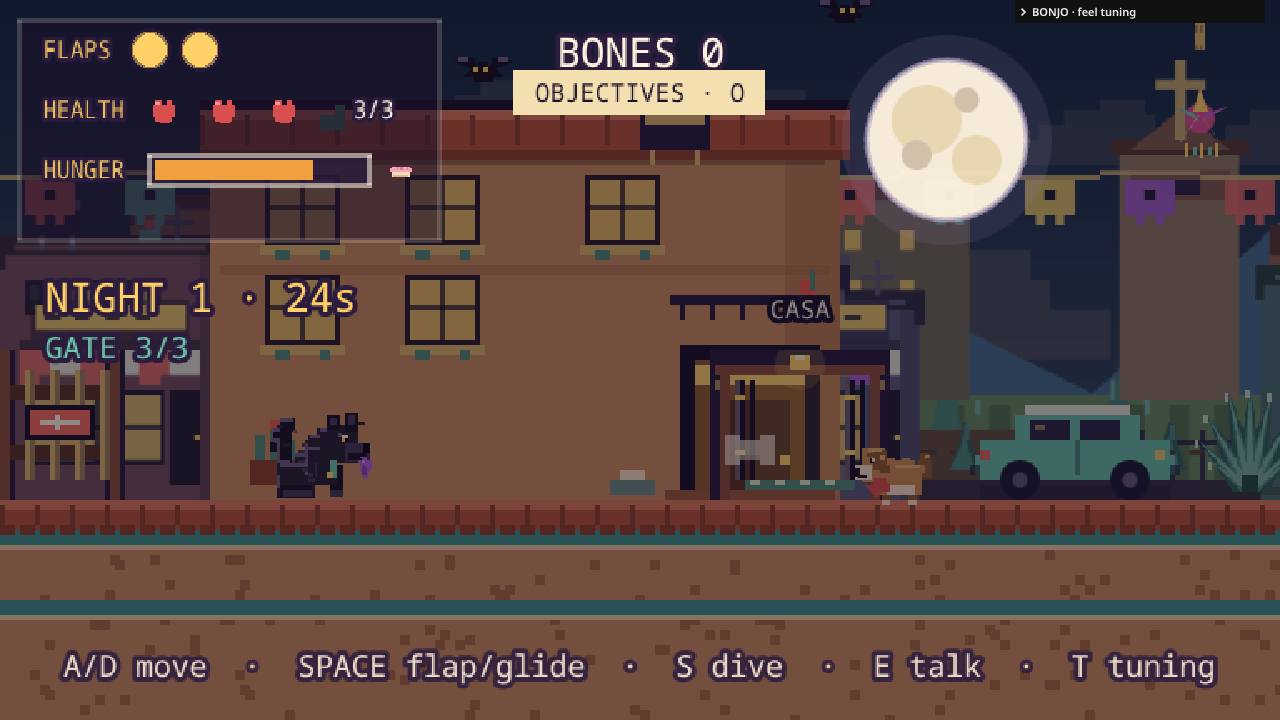
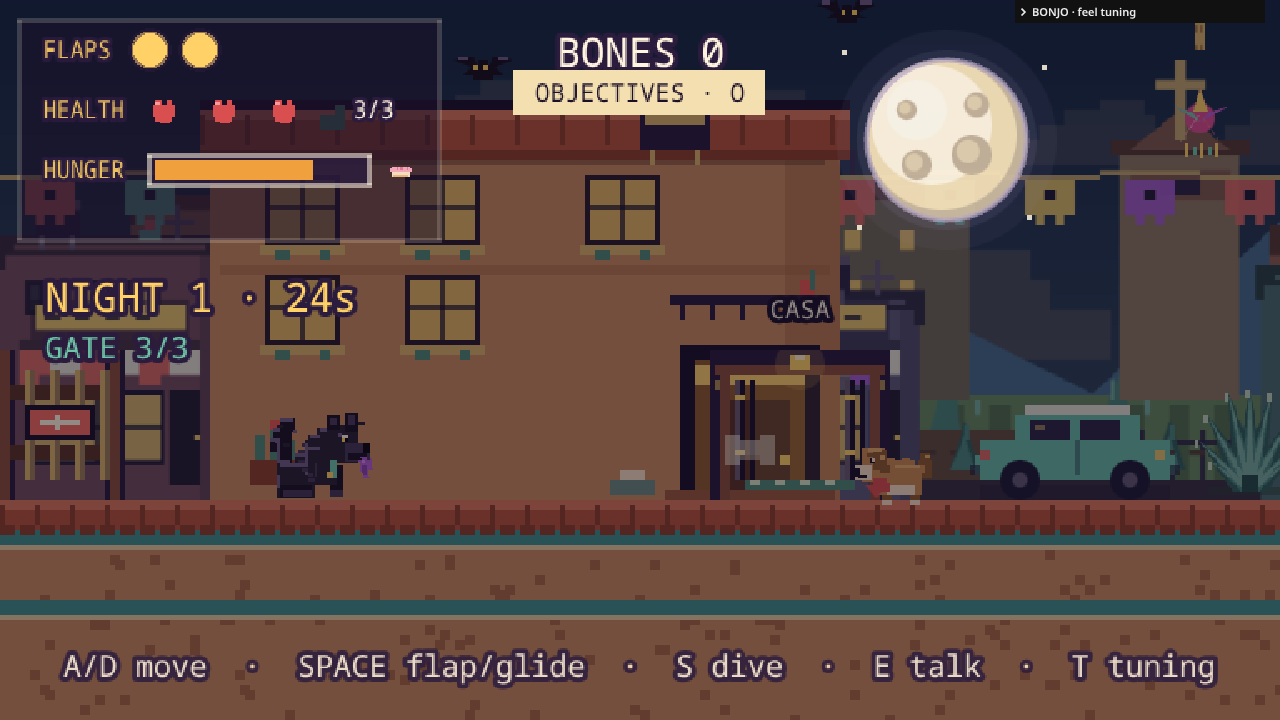
Polish sun and moon night-sky art

Changed region(s): [[0.6562, 0.0611, 0.8125, 0.3056]]

diff --git a/src/art.js b/src/art.js
@@ -158,6 +158,16 @@ function makeSky(scene) {
 
 function makeSun(scene) {
   const g = gfx(scene);
+  g.lineStyle(1, GOLD, 0.42);
+  g.lineBetween(24, 2, 24, 7);
+  g.lineBetween(24, 41, 24, 46);
+  g.lineBetween(2, 24, 7, 24);
+  g.lineBetween(41, 24, 46, 24);
+  g.lineBetween(8, 8, 12, 12);
+  g.lineBetween(36, 36, 40, 40);
+  g.lineBetween(40, 8, 36, 12);
+  g.lineBetween(12, 36, 8, 40);
+
   g.fillStyle(GOLD, 0.14);
   g.fillCircle(24, 24, 17);
   g.fillStyle(GOLD, 0.32);
@@ -173,19 +183,38 @@ function makeSun(scene) {
 function makeMoon(scene) {
   const g = gfx(scene);
 
-  // soft halo, then a pale full moon with a cool rim and a few craters
-  g.fillStyle(0x8f7ca8, 0.16);
-  g.fillCircle(24, 24, 21);
-  g.fillStyle(0xfff4e0, 1);
+  // soft halo and a shaded, cratered full moon
+  g.fillStyle(0x8f7ca8, 0.08);
+  g.fillCircle(24, 24, 22);
+  g.fillStyle(0x8f7ca8, 0.14);
+  g.fillCircle(24, 24, 18);
+  g.fillStyle(0xcbb99f, 1);
   g.fillCircle(24, 24, 16);
   g.fillStyle(0xf3dfb7, 1);
-  g.fillCircle(20, 20, 7);
-  g.fillCircle(30, 28, 5);
-  g.fillStyle(0xd9c8b0, 1);
-  g.fillCircle(18, 27, 3);
-  g.fillCircle(28, 16, 2.5);
-  g.lineStyle(1, 0xb9a9c8, 0.65);
+  g.fillCircle(23, 23, 15);
+  g.fillStyle(0xfff4e0, 1);
+  g.fillCircle(21, 21, 12);
+  g.fillStyle(0xfffbf0, 0.75);
+  g.fillCircle(18, 18, 6);
+
+  const crater = (x, y, r) => {
+    g.fillStyle(0xc7b49c, 1);
+    g.fillCircle(x, y, r);
+    g.fillStyle(0xe4d1b2, 1);
+    g.fillCircle(x - r * 0.18, y - r * 0.18, r * 0.58);
+  };
+  crater(29, 27, 4);
+  crater(18, 29, 3);
+  crater(30, 17, 2.5);
+  crater(16, 18, 2);
+
+  g.lineStyle(1, 0xb9a9c8, 0.7);
   g.strokeCircle(24, 24, 16);
+  g.fillStyle(CREAM, 0.9);
+  g.fillRect(3, 6, 1, 1);
+  g.fillRect(43, 9, 1, 1);
+  g.fillRect(6, 41, 1, 1);
+  g.fillRect(40, 39, 1, 1);
 
   g.generateTexture('moon', 48, 48);
   g.destroy();
